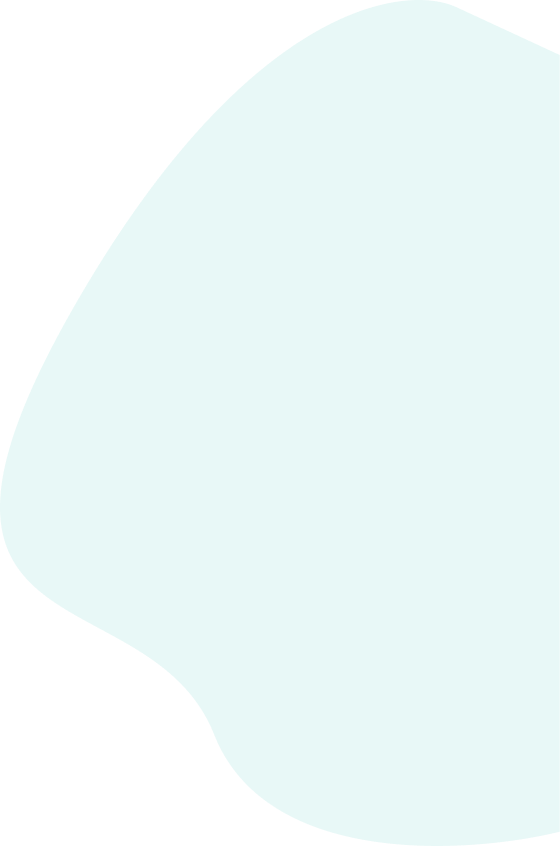
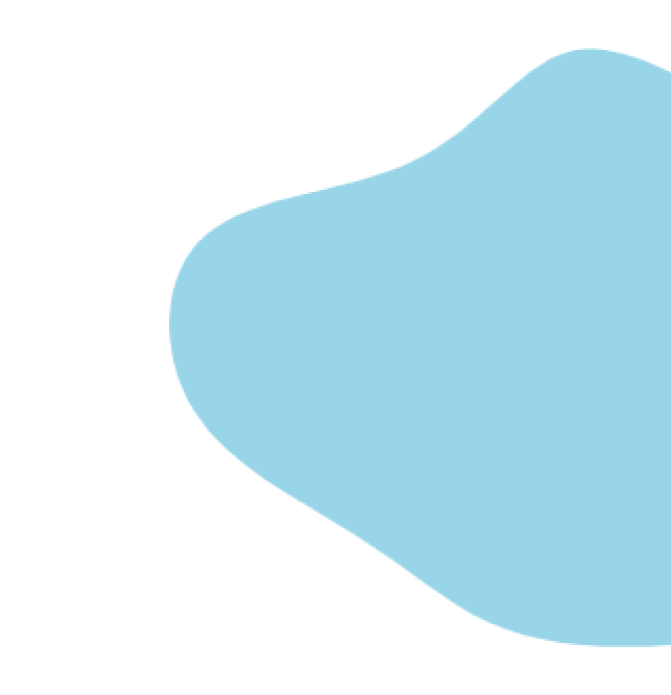
Updated Nosotros and Servicios

diff --git a/index.html b/index.html
@@ -88,7 +88,7 @@
           <a href="/contact.html">¡CONTACTANOS!</a>
         </div>
         <div class="hero-img">
-          <img src="./img/hero.svg" alt="webdevarg-hero" />
+          <img src="./img/hero.png" alt="webdevarg-hero" />
         </div>
       </div>
       <img src="./img/wavestart.png" />
@@ -107,11 +107,11 @@
         </div>
         <div class="cards">
           <div class="card">
-            <img src="./img/chart.svg" alt="analisis-gráfico" />
-            <h3>Google Analytics</h3>
+            <img src="./img/code.svg" alt="analisis-gráfico" />
+            <h3>100% Codigo</h3>
             <p>
-              Tu sitio tendrá Google Analytics para poder visualizar el tráfico
-              en tu sitio y ver su origen.
+              Tu sitio web sera hecho con codigo en su totalidad. Esto atrae
+              beneficios como mayor personalización y de optimización.
             </p>
           </div>
           <div class="card">
@@ -131,25 +131,31 @@
             </p>
           </div>
         </div>
-        <img src="/img/fondo1.png" />
+        <svg viewBox="0 0 200 200" xmlns="http://www.w3.org/2000/svg">
+          <path
+            fill="#00B4D8"
+            d="M37.3,-62.6C45.6,-52.6,47.8,-37.7,49.6,-25.2C51.5,-12.6,53,-2.4,56.5,11.7C60,25.7,65.4,43.6,60.4,56C55.3,68.4,39.7,75.3,24.4,77.2C9,79.1,-6.2,75.9,-20.6,71.2C-35,66.4,-48.6,60.2,-60.6,50.3C-72.6,40.4,-83,26.9,-84.9,12.3C-86.9,-2.3,-80.2,-17.9,-68.5,-26.2C-56.8,-34.4,-40,-35.2,-27.7,-43.4C-15.4,-51.6,-7.7,-67.1,3.4,-72.3C14.5,-77.6,28.9,-72.6,37.3,-62.6Z"
+            transform="translate(100 100)"
+          />
+        </svg>
       </section>
       <section class="descripcion" id="servicios">
         <div class="wrapper">
           <div class="descripcion-imagen">
-            <img src="./img/cerdo.svg" alt="plata-chancho-servicios" />
+            <img src="./img/dashboard.svg" alt="plata-chancho-servicios" />
           </div>
           <div class="descripcion-text">
             <div class="descripcion-precio">
-              <h2><span>$0</span> Primer Pago, <span>$2200</span> Por Mes</h2>
+              <h2>NUESTROS <span>SERVICIOS</span></h2>
               <p>
-                $0 por un sitio estandar con 3 páginas para pequeños
-                emprendimientos en busca de inserción en internet. Si necesitas
-                más que eso podemos hacer un precio personalizado de acuerdo al
-                trabajo, número de páginas adicionales y tiempo involucrado.
+                Nos encargamos de insertar tu negocio en Internet. Si nunguno de
+                nuestros planes se acomoda a lo que necesitas, podemos hacer un
+                precio personalziado de acuerdo al trabajo, número de páginas
+                adicionales y tiempo involucrado.
               </p>
               <p>
-                Tu propio dominio, contenido y perfiles. Cancela cuando quieras
-                sin recargos.
+                Tu propio dominio y contenido. Cancela cuando quieras sin
+                cargos.
               </p>
             </div>
             <div class="caracteristicas">
@@ -157,28 +163,24 @@
                 <div class="tarjetas">
                   <i class="fas fa-check"></i>
                   <h4>Cuota de Hosting Incluida</h4>
-                  <p>Las cuotas del hosting estan incluidas en el precio.</p>
+                  <p>El primer año de hoisting incluido en la cuota.</p>
                 </div>
                 <div class="tarjetas">
                   <i class="fas fa-check"></i>
-                  <h4>Servicio al Cliente 24/7</h4>
-                  <p>
-                    Contactanos cualquier día y responderemos a la brevedad.
-                  </p>
+                  <h4>Mantenimiento gratis</h4>
+                  <p>Hasta 6 horas mensuales de mantenimiento gratis.</p>
                 </div>
               </div>
               <div class="caracteristicas-2">
                 <div class="tarjetas">
                   <i class="fas fa-check"></i>
-                  <h4>Ediciones Ilimitadas</h4>
-                  <p>
-                    Cambia lo que quieras cuando quieras y sera hecho ese día.
-                  </p>
+                  <h4>Revisiones gratis</h4>
+                  <p>Hasta 3 revisiones gratis sobre el diseño.</p>
                 </div>
                 <div class="tarjetas">
                   <i class="fas fa-check"></i>
-                  <h4>Diseño Web y Desarrollo</h4>
-                  <p>Más de 30 horas de diseño y desarrollo.</p>
+                  <h4>Entrega de archivos</h4>
+                  <p>Entrega de archivos en todos los formatos.</p>
                 </div>
               </div>
             </div>

diff --git a/style.css b/style.css
@@ -6,7 +6,7 @@
 
 html {
   font-size: 62.5%;
-  --header1: calc(1.2rem + 1vw);
+  --header1: calc(1.6rem + 1vw);
   --header2: calc(4rem + 0.5vw);
   --header3: calc(2.2rem + 0.5vw);
   --header4: calc(0.7rem + 1vw);
@@ -210,8 +210,10 @@ header > img {
 /* SECTION "LO QUE HACEMOS"*/
 
 .info {
-  min-height: 100vh;
+  min-height: 70vh;
   position: relative;
+  z-index: 100;
+  overflow-x: hidden;
 }
 
 .desc {
@@ -283,11 +285,13 @@ header > img {
   text-align: center;
 }
 
-.info > img {
+.info > svg {
   position: absolute;
-  top: 7rem;
-  right: 0;
-  height: 80vh;
+  opacity: 0.5;
+  top: 0;
+  right: -20rem;
+  height: 60vh;
+  z-index: -100;
 }
 
 /*SECTION DESCRIPCION (CERDO)*/
@@ -303,8 +307,10 @@ header > img {
 
 .wrapper {
   width: 90%;
-  margin: auto;
+  margin: 0 auto;
   display: flex;
+  align-items: center;
+  gap: 4rem;
   flex-wrap: wrap;
 }
 
@@ -315,8 +321,12 @@ header > img {
 
 .descripcion-text {
   text-align: center;
-
   flex: 1 1 40rem;
+  min-height: 20vh;
+  overflow: hidden;
+  background-color: rgba(0, 180, 216, 0.2);
+  border-radius: 12px;
+  padding: 4rem 0;
 }
 
 .descripcion-precio {
@@ -450,7 +460,7 @@ header > img {
 /*PRECIOSSSSS*/
 .prices {
   min-height: 100vh;
-  background: linear-gradient(0.7turn, #3fcac2, #197772);
+  background: linear-gradient(0.7turn, #00b4d8, #0077b6);
   background-repeat: no-repeat;
   position: relative;
   overflow-x: hidden;
@@ -726,7 +736,7 @@ header > img {
 /*FOOOTERRR*/
 .footer {
   min-height: 30vh;
-  background: linear-gradient(0.9turn, #3fcac2, #197772);
+  background: linear-gradient(0.7turn, #00b4d8, #0077b6);
   display: flex;
   justify-content: space-around;
   align-items: flex-start;
